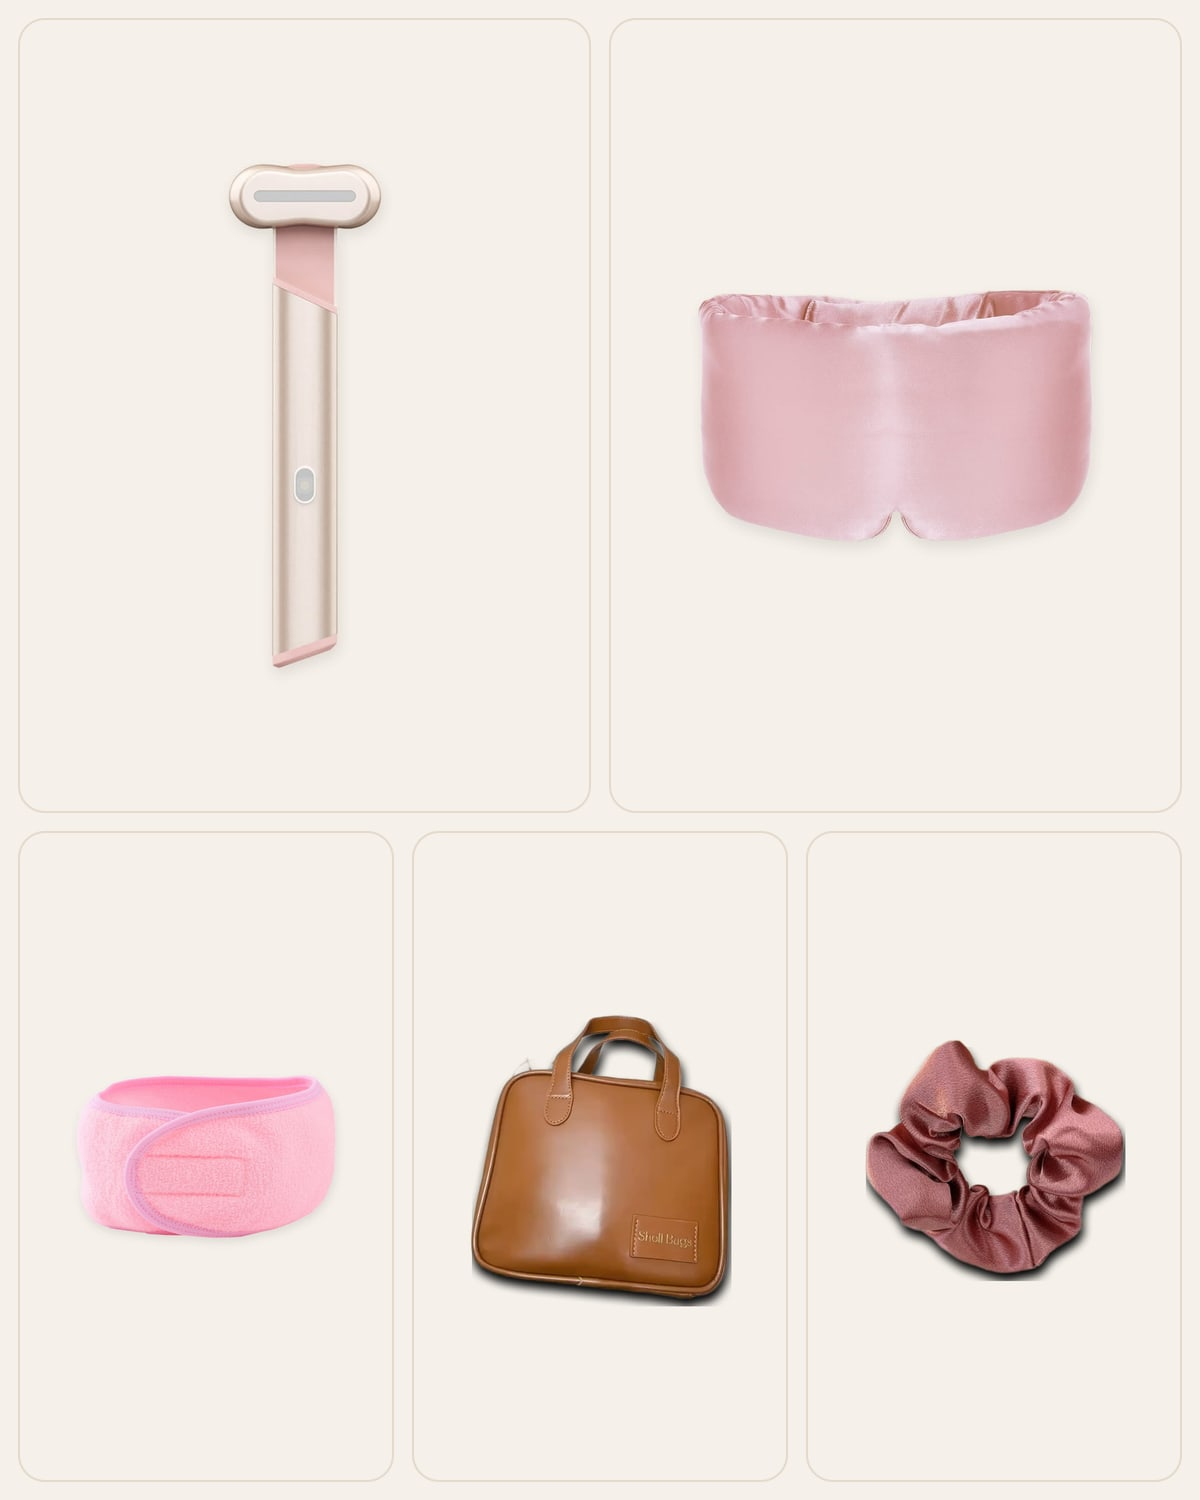
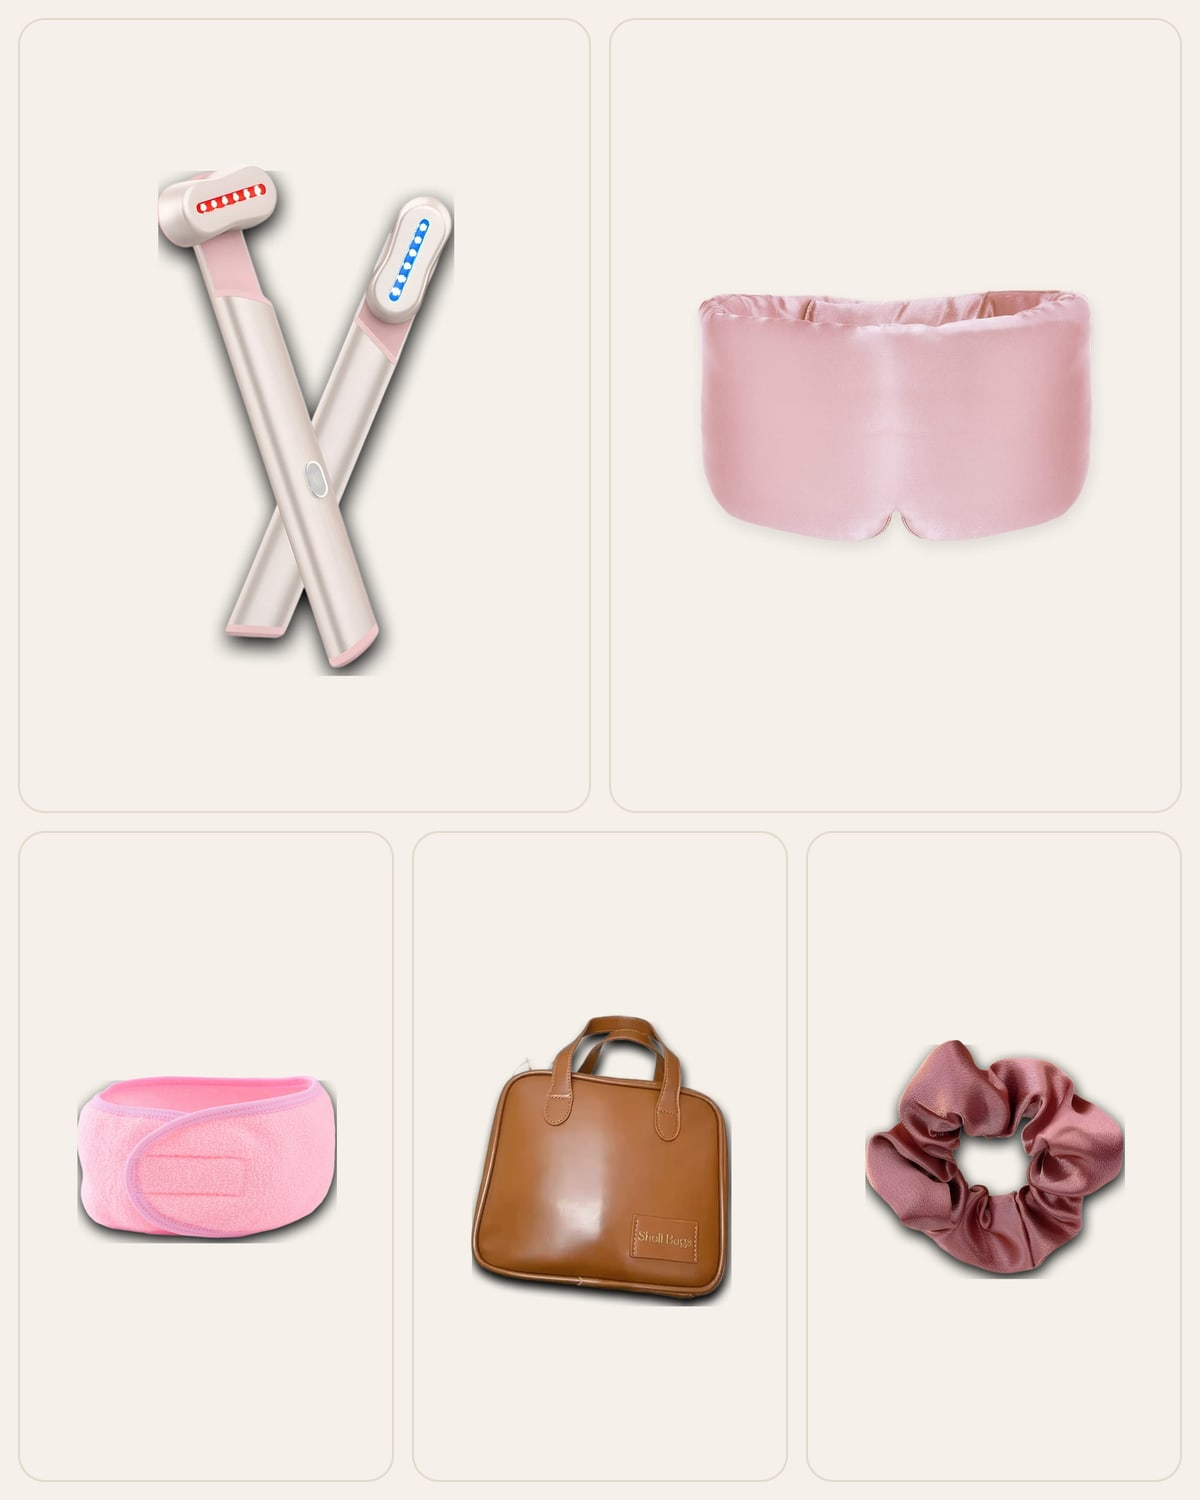
Regenerate every set mosaic with the wave-two photos
The spa headband sits in twelve of them; the microcurrent, manicure kit and
foot file tiles follow their re-cuts, and lifestyle heroes now fill their
tile edge to edge. SET_HERO_VERSION 5.

diff --git a/prisma/seed.ts b/prisma/seed.ts
@@ -2110,7 +2110,7 @@ function setRecipe(slug: string): string {
 const LEGACY_RECIPE_PREFIX = "SET: order each component on CJ";
 
 const SET_HERO_BASE = "https://cmacbeauty.ca/sets";
-const SET_HERO_VERSION = 4;
+const SET_HERO_VERSION = 5;
 const isDerivedCloudinary = (u: string) => u.startsWith("https://res.cloudinary.com/") && u.includes("/cmac/products/");
 /** True when a set's images were all generated by this seed (CJ photos, component Cloudinary photos, set mosaics). */
 function onlyDerivedSetPhotos(images: unknown): boolean {
